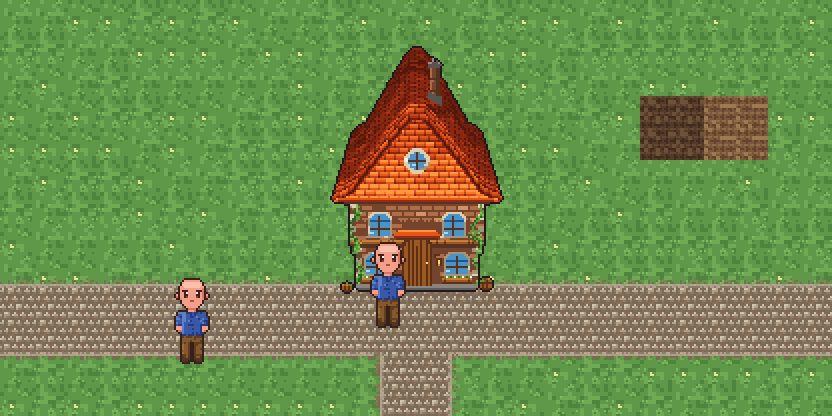
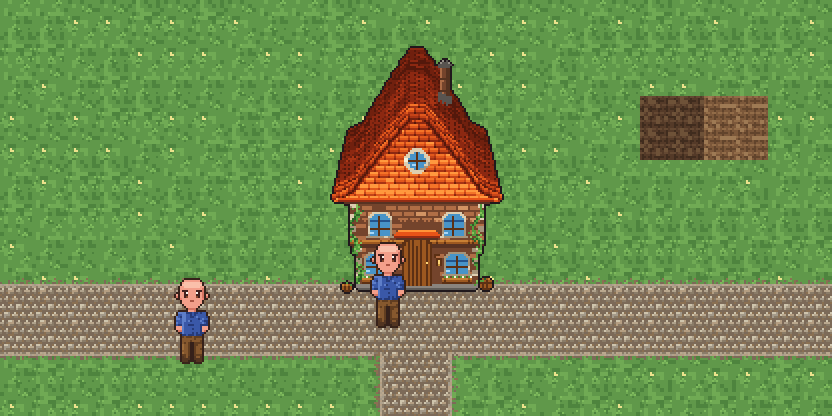
굴뚝을 오른쪽으로 — 지붕 밖으로 나가도 된다
갓이 지붕 실루엣 밖으로 나가는 걸 피하려고 키를 줄이고 깊이를 양보했는데,
둘 다 잘못 짚었다. **굴뚝은 원래 지붕 위로 솟는 물건**이고, 뒤쪽 지붕은
그 뒤에서 멀어지며 내려간다. 지켜야 할 건 하나뿐이다 —

  **발(치마)이 지붕 위에 있을 것.**

발만 붙어 있으면 윗동은 하늘에 나가 있어도 지붕에서 솟은 것으로 읽힌다.
키(30칸)와 깊이(용마루보다 열한 칸 위)를 되돌리고 오른쪽으로 다섯 칸 뺐다.

TAPER 26% -> 20%. 뒤가 좁아 자리가 안 나와서 눅였는데, 더 줄여도 소용없었다
— 지붕 **맨 뒤 폭은 용마루 폭(RH)** 이 정하지 좁아지는 비율이 정하는 게 아니다.
20%는 그대로 두었다. 원근은 켜 간격과 톤 사다리가 같이 말해 준다.

Changed region(s): [[0.4062, 0.125, 0.625, 0.4688]]

diff --git a/game/assets/ref/make_buildings.js b/game/assets/ref/make_buildings.js
@@ -380,7 +380,11 @@ const DEPTH = 36;
 // 양쪽이 똑같이 좁아지므로 정면은 마주 본 채로 뒤만 멀어진다.
 // 깊어진 만큼 더 모아 준다. 길이가 두 배인데 좁아지는 폭이 그대로면
 // 뒤가 멀어지는 게 아니라 그냥 길쭉해 보인다
-const TAPER = 0.26;              // 맨 뒤에서 26% 좁아진다
+// 26%까지 모았더니 뒤가 좁아 굴뚝 놓을 자리가 없었다. 20%로 눅였다.
+// (더 줄여도 소용없었다 — 지붕 **맨 뒤 폭은 용마루 폭(RH)** 이 정하지
+//  좁아지는 비율이 정하는 게 아니다.)
+// 원근은 좁아지는 폭 말고도 켜 간격과 톤 사다리가 같이 말해 준다.
+const TAPER = 0.20;              // 맨 뒤에서 20% 좁아진다
 const VPX = GW / 2;              // 소실점 x (건물 한가운데 위)
 
 // 뒤로 물러나는 면은 **멀어질수록 어두워진다.** 한 색으로 채우면 두께가
@@ -830,11 +834,19 @@ function build(spec) {
     // 깊이가 아니라 화면 위치를 옮기는 것이다
     // 뒤로 갈수록 지붕면이 **좁아진다**(원근). 앞쪽 기준으로 자리를 잡으면
     // 뒤에서는 지붕 밖으로 삐져나간다 — 실제로 오른쪽 끝에 걸쳤었다
-    // 자리는 **실루엣을 재서** 잡았다. 뒤로 갈수록 지붕이 좁아져서
-    // (y=36에서 오른쪽 끝 x=83, y=18에서는 79) 뒤로 밀수록 오른쪽 여유가
-    // 줄어든다. 굴뚝은 꼭대기까지 지붕 안에 들어와야 하므로 제일 좁은
-    // 윗부분을 기준으로 잡는다 — 오른쪽 끝에서 네 칸 안쪽
-    chimney(g, spec.chimneyX || CX + 7, RIDGE - 30, RIDGE - 11, true);
+    // 자리는 **실루엣을 재서** 잡았다. 지붕 오른쪽 끝은 y=20에서 x=75,
+    // y=26에서 80, y=35에서 86 — 뒤로 갈수록 좁아진다. 굴뚝은 갓까지
+    // 지붕 안에 들어와야 하니 **제일 높은 곳(갓)** 이 자리를 정한다.
+    //
+    // 그래서 오른쪽으로 더 빼려고 깊이를 줄이는 대신 **키를 줄였다** —
+    // 발은 그대로 뒤(y=36)에 두고 갓만 내려오면, 깊이는 유지한 채
+    // 갓이 넓은 자리로 내려와 오른쪽 여유가 생긴다
+    // 갓이 지붕 실루엣 밖으로 나가는 걸 피하려고 키를 줄였더니 뭉툭해졌다.
+    // **나가도 된다** — 굴뚝은 원래 지붕 위로 솟는 물건이고, 뒤쪽 지붕은
+    // 그 뒤에서 멀어지며 내려간다. 지켜야 할 건 하나뿐이다:
+    // **발(치마)이 지붕 위에 있을 것.** 발만 붙어 있으면 윗동은 하늘에
+    // 나가 있어도 굴뚝이 지붕에서 솟은 것으로 읽힌다.
+    chimney(g, spec.chimneyX || CX + 12, RIDGE - 30, RIDGE - 11, true);
 
   // ---- 살림 (뒷면 뒤에 — 앞에 놓인 것들이라 묻히면 안 된다) ----
   lantern(g, CX - 13, MID + 8);
